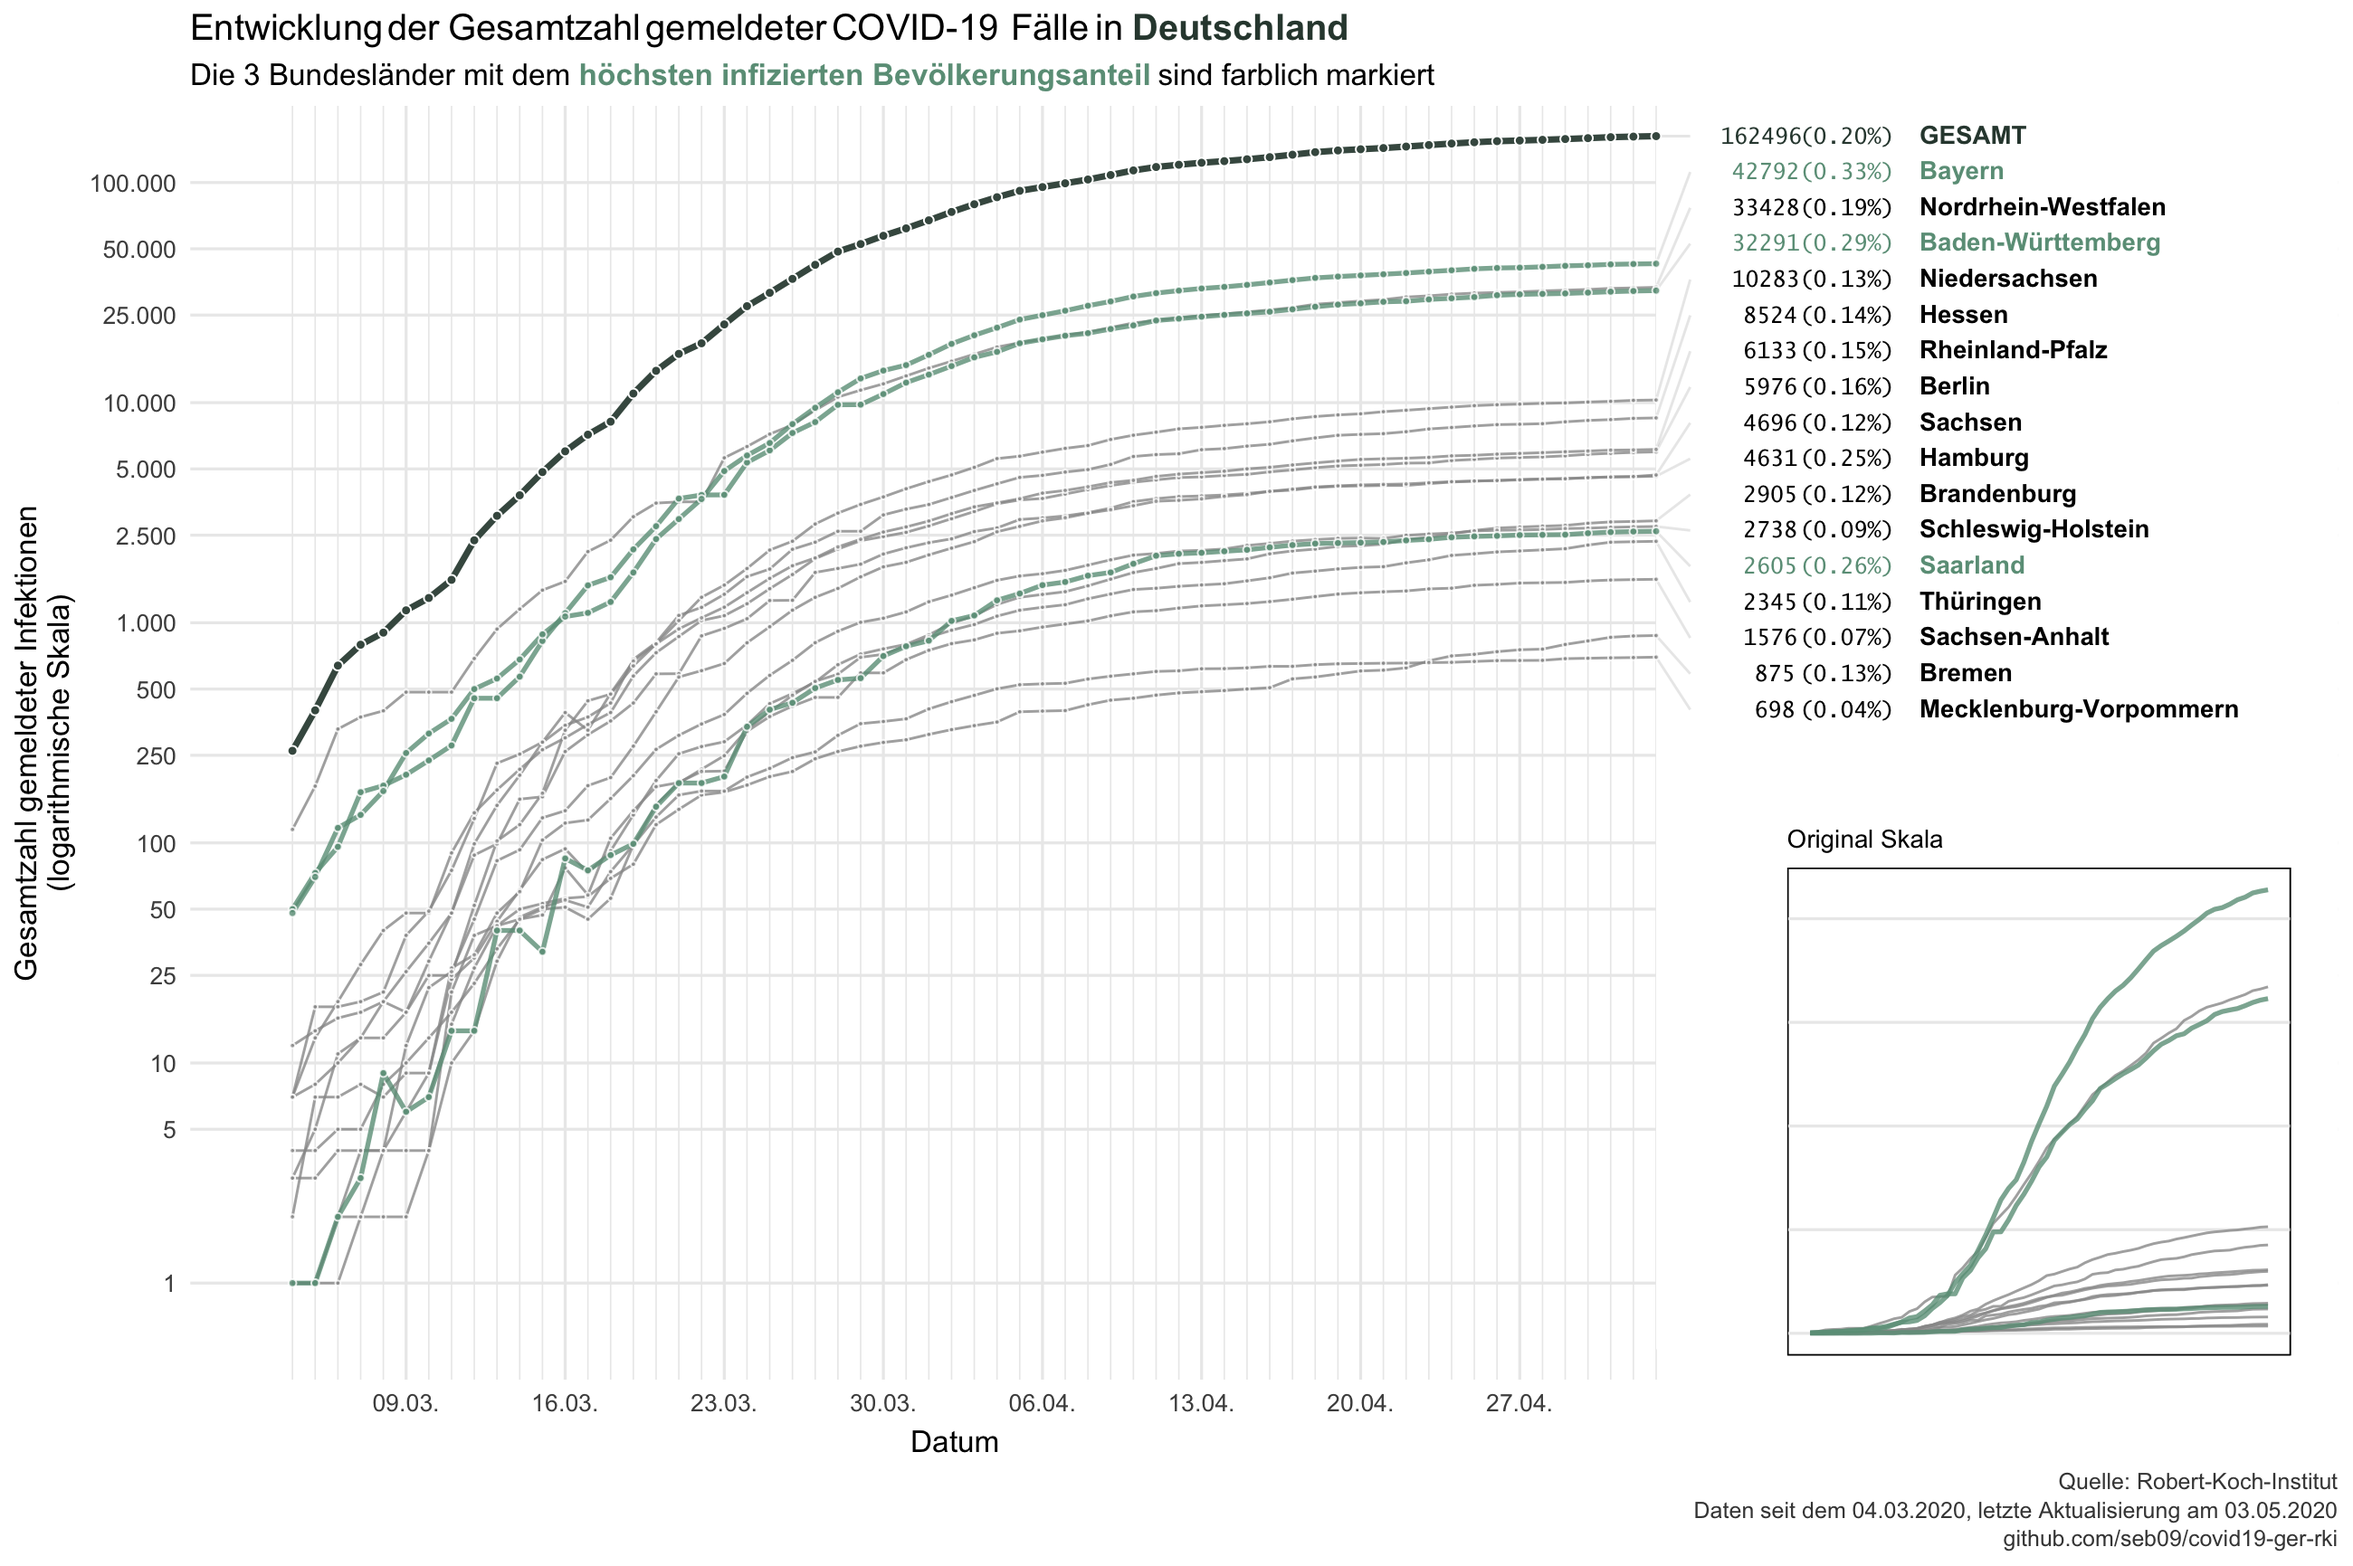
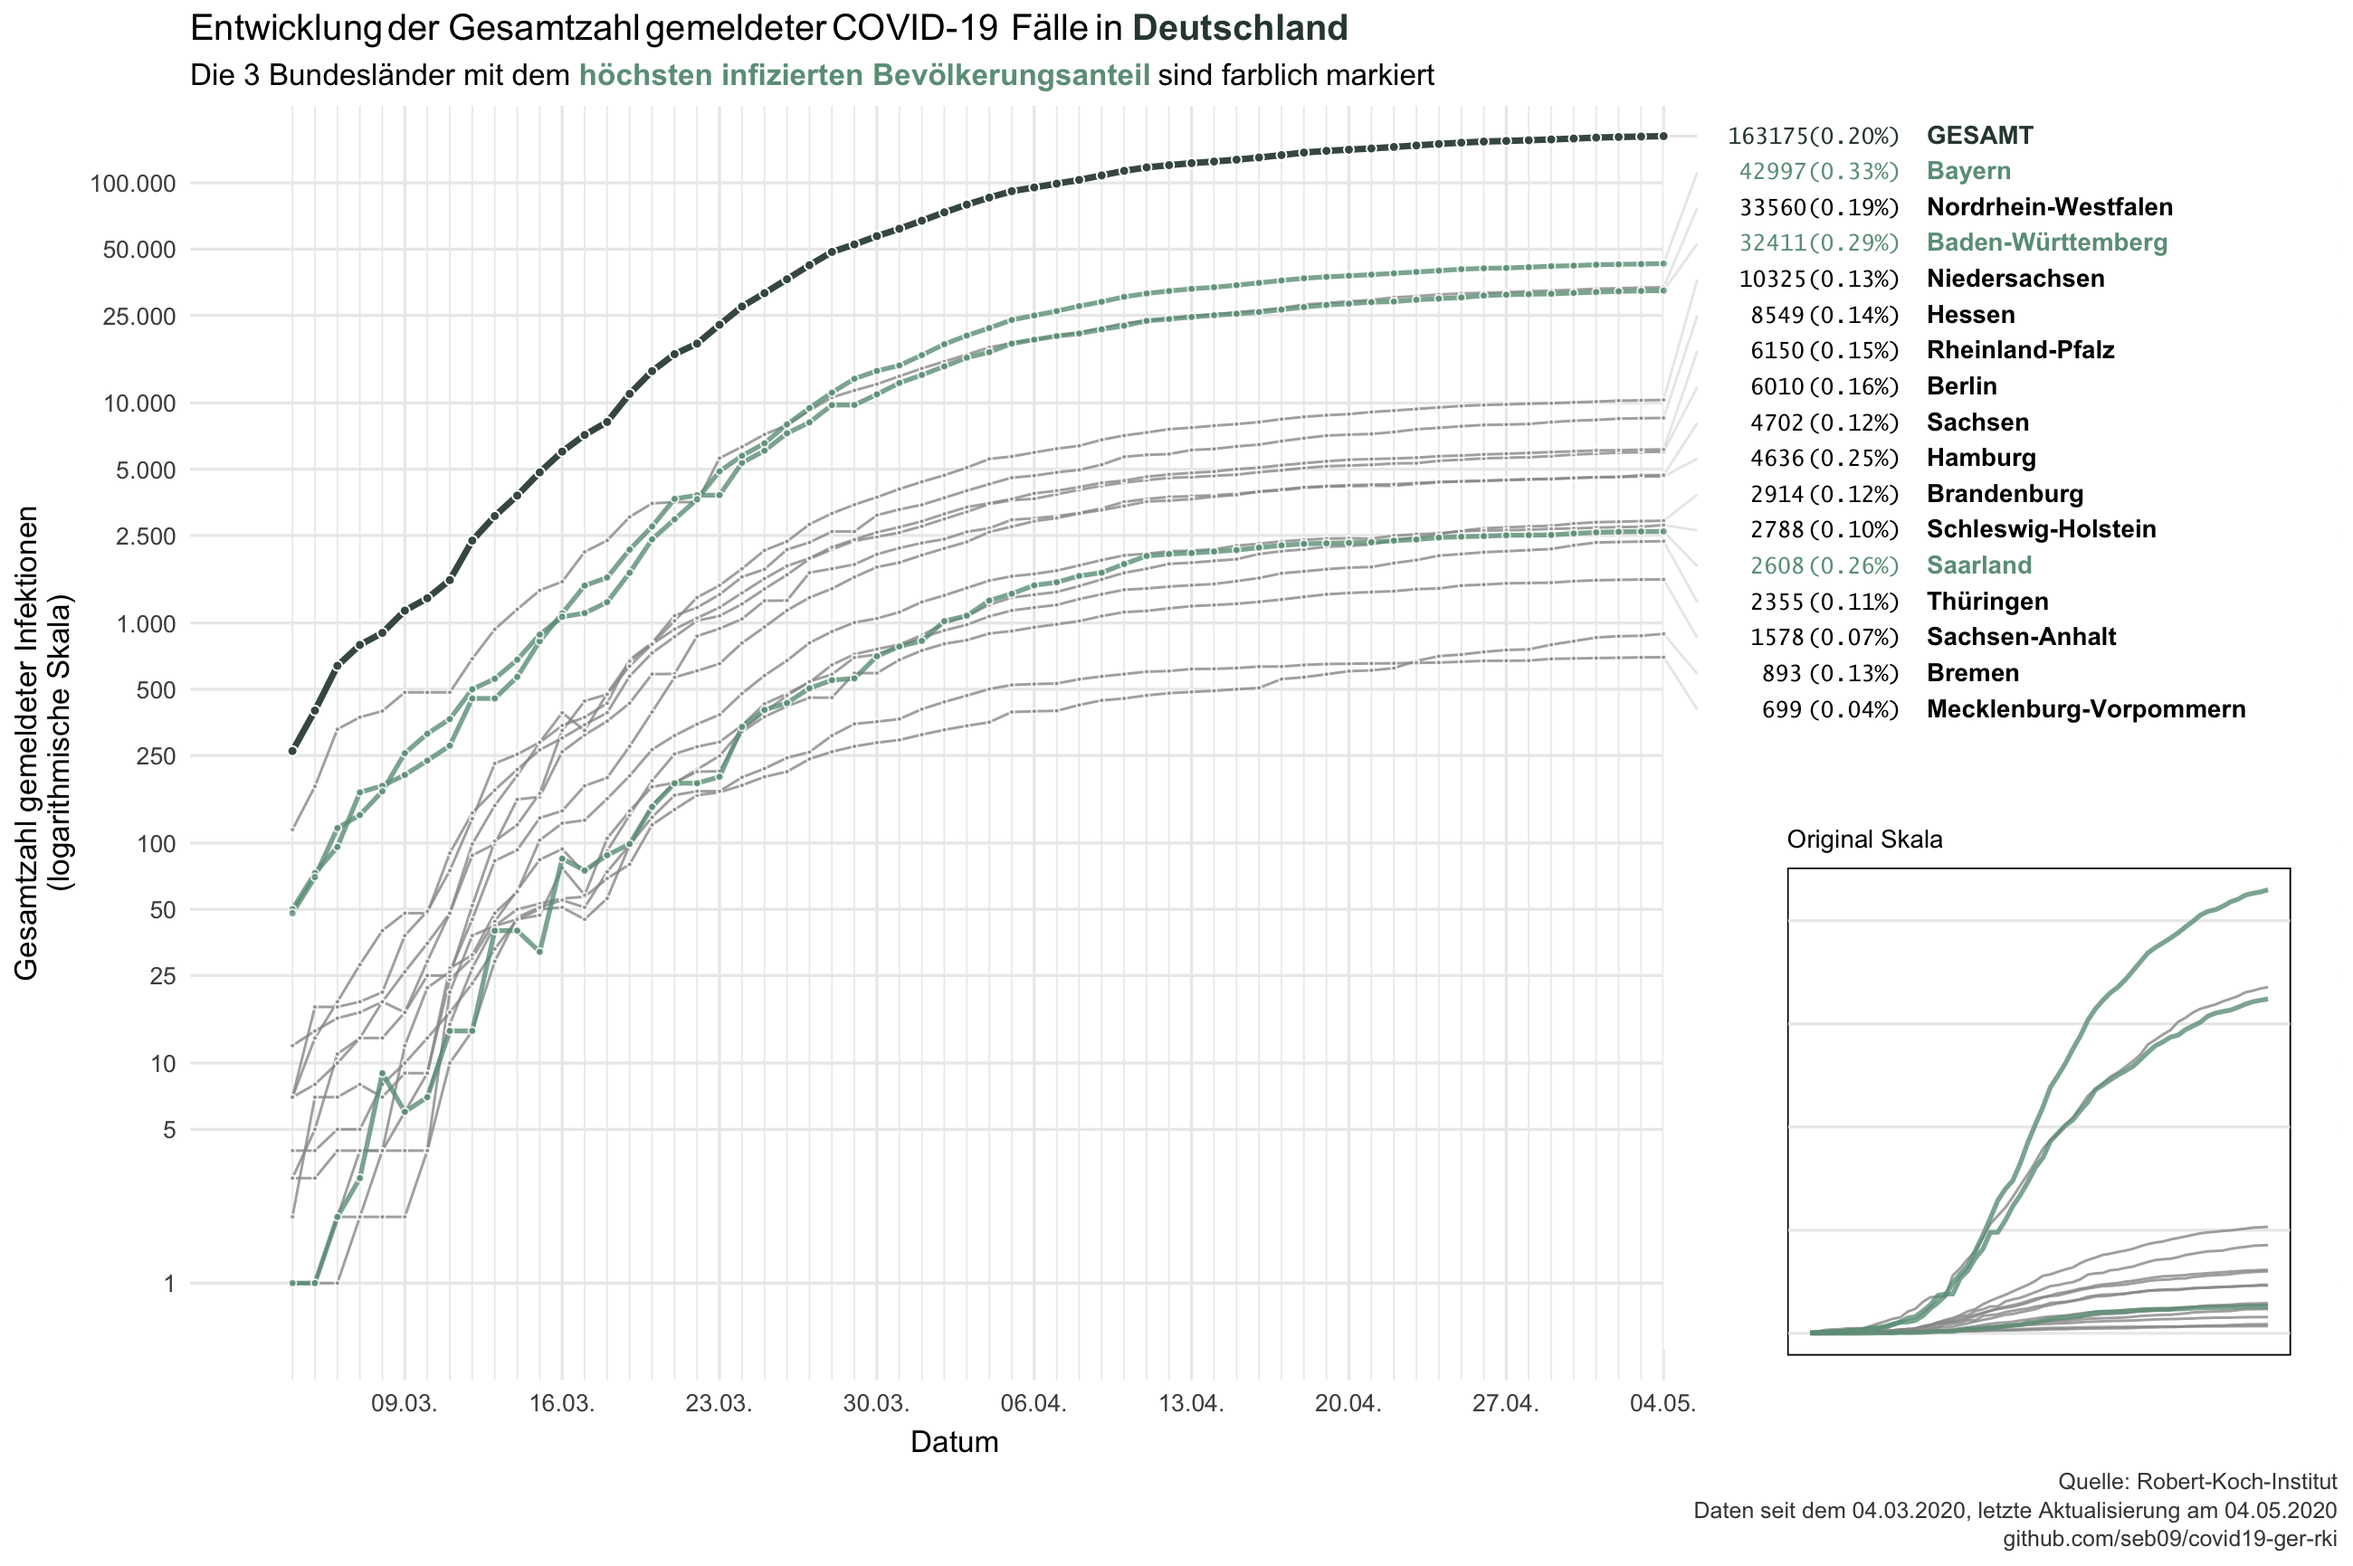
daily update 2020-05-04

diff --git a/README.md b/README.md
@@ -1,6 +1,6 @@
 Data from the Robert-Koch-Institut on COVID-19 in Germany
 ================
-Last update: 2020-05-03
+Last update: 2020-05-04
 
 This repository contains data on reported COVID-19 cases in Germany and
 its federal states that is published daily by the Robert-Koch-Institut
@@ -14,26 +14,26 @@ corona_rki %>%
   print(n = 16)
 ```
 
-    ## # A tibble: 970 x 6
+    ## # A tibble: 986 x 6
     ##    Datum      Bundesland      Fallzahl Todeszahl Fallzahl_neu Todeszahl_neu
     ##    <date>     <chr>              <dbl>     <dbl>        <dbl>         <dbl>
-    ##  1 2020-05-03 Baden-Württemb…    32291      1412          145            10
-    ##  2 2020-05-03 Bayern             42792      1910          134            25
-    ##  3 2020-05-03 Berlin              5976       154           33             2
-    ##  4 2020-05-03 Brandenburg         2905       122           19             0
-    ##  5 2020-05-03 Bremen               875        30            4             0
-    ##  6 2020-05-03 Hamburg             4631       164           22             1
-    ##  7 2020-05-03 Hessen              8524       370           38             6
-    ##  8 2020-05-03 Mecklenburg-Vo…      698        18            3             0
-    ##  9 2020-05-03 Niedersachsen      10283       453           37             2
-    ## 10 2020-05-03 Nordrhein-West…    33428      1287          212            19
-    ## 11 2020-05-03 Rheinland-Pfalz     6133       176           34             3
-    ## 12 2020-05-03 Saarland            2605       138            8             3
-    ## 13 2020-05-03 Sachsen             4696       165           79             2
-    ## 14 2020-05-03 Sachsen-Anhalt      1576        44            5             0
-    ## 15 2020-05-03 Schleswig-Hols…     2738       113           10             1
-    ## 16 2020-05-03 Thüringen           2345        93           10             0
-    ## # … with 954 more rows
+    ##  1 2020-05-04 Baden-Württemb…    32411      1421          120             9
+    ##  2 2020-05-04 Bayern             42997      1926          205            16
+    ##  3 2020-05-04 Berlin              6010       154           34             0
+    ##  4 2020-05-04 Brandenburg         2914       122            9             0
+    ##  5 2020-05-04 Bremen               893        30           18             0
+    ##  6 2020-05-04 Hamburg             4636       166            5             2
+    ##  7 2020-05-04 Hessen              8549       372           25             2
+    ##  8 2020-05-04 Mecklenburg-Vo…      699        18            1             0
+    ##  9 2020-05-04 Niedersachsen      10325       456           42             3
+    ## 10 2020-05-04 Nordrhein-West…    33560      1290          132             3
+    ## 11 2020-05-04 Rheinland-Pfalz     6150       177           17             1
+    ## 12 2020-05-04 Saarland            2608       139            3             1
+    ## 13 2020-05-04 Sachsen             4702       167            6             2
+    ## 14 2020-05-04 Sachsen-Anhalt      1578        45            2             1
+    ## 15 2020-05-04 Schleswig-Hols…     2788       113           50             0
+    ## 16 2020-05-04 Thüringen           2355        96           10             3
+    ## # … with 970 more rows
 
 Data is downloaded each day at 11am from the [website of the
 RKI](https://www.rki.de/DE/Content/InfAZ/N/Neuartiges_Coronavirus/Fallzahlen.html)
